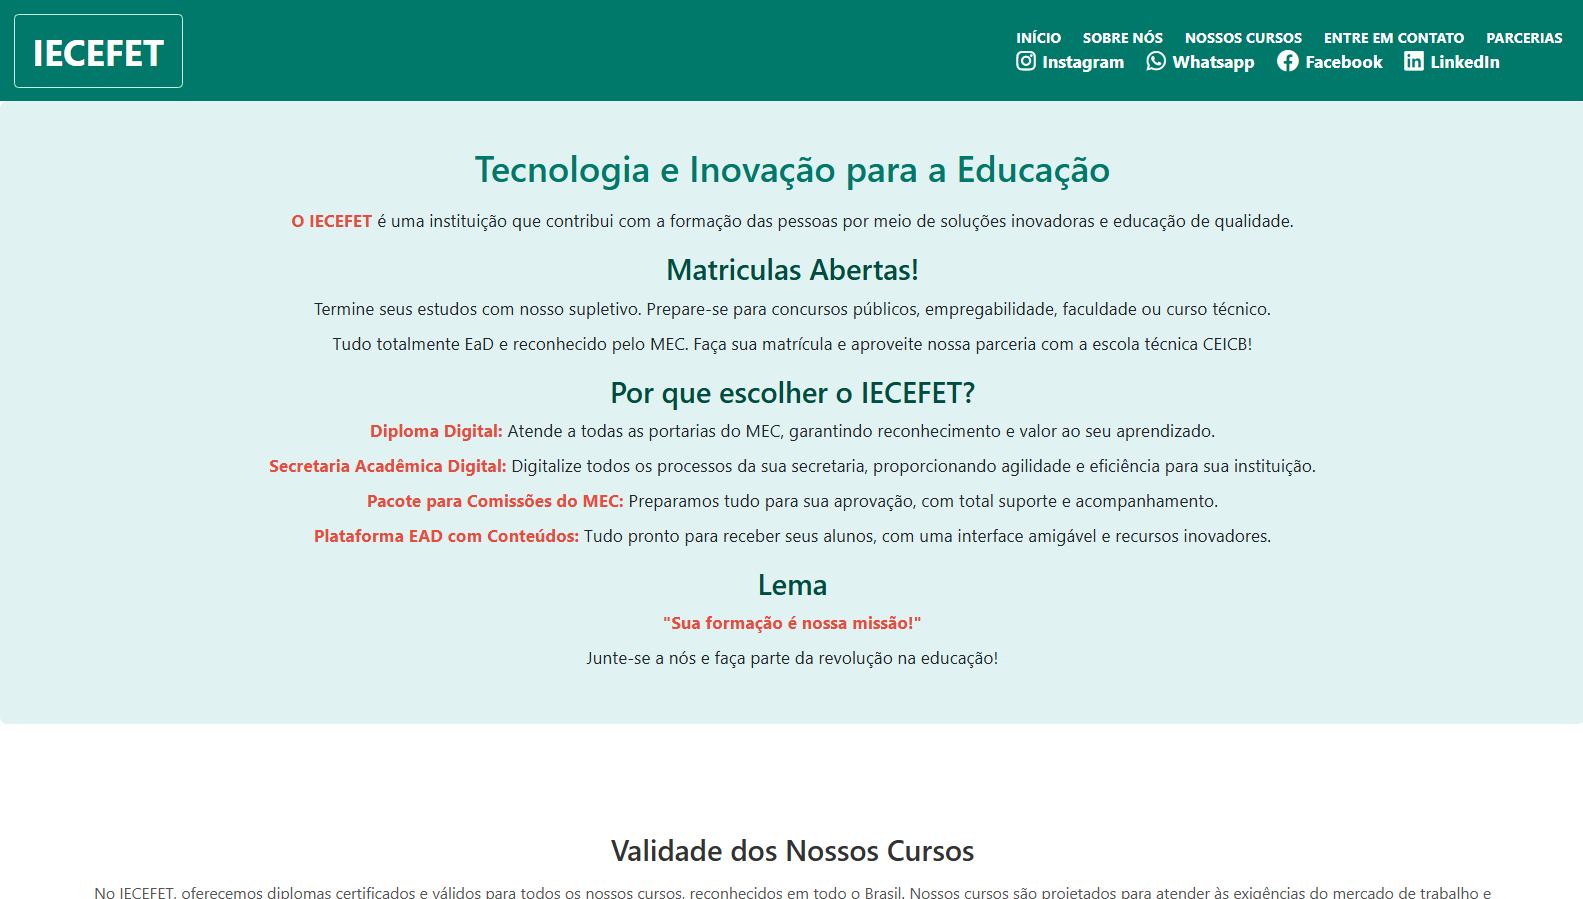
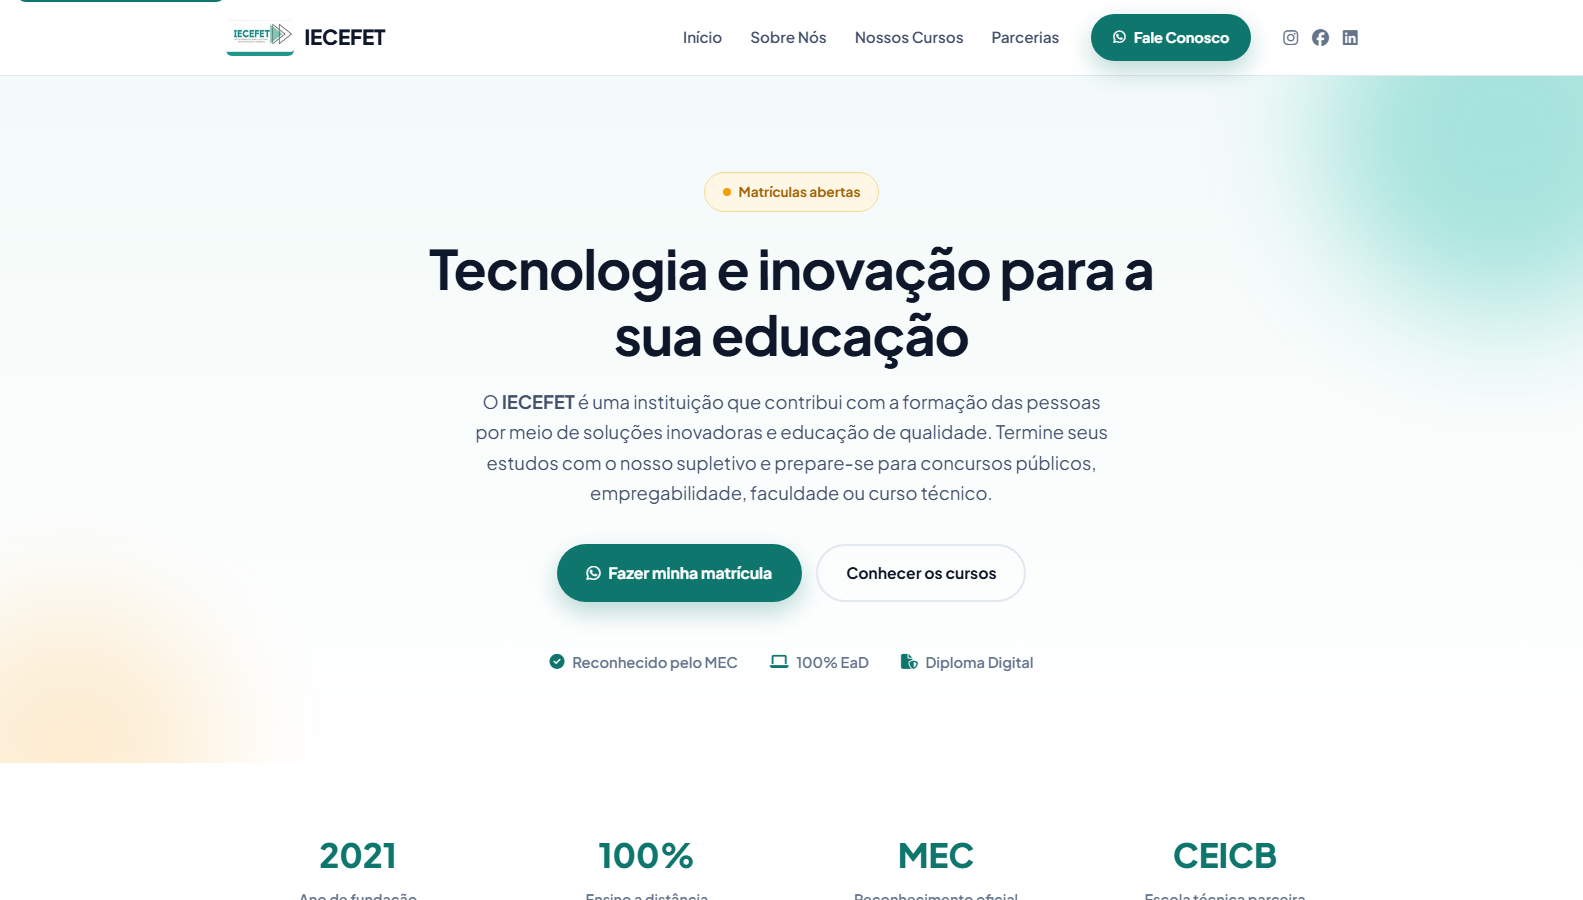
Adiciona R9 Informatica e Ayesha Hair Salon, atualiza thumbnails
Inclui os dois projetos que faltavam no portfolio (R9 e Ayesha), com
thumbnails novos gerados a partir das versoes atualizadas de cada site.
Atualiza tambem os thumbnails do IECEFET e do Software de Gestao Medico,
que estavam desatualizados (versao anterior ao revamp). Remove
user-scalable=no do viewport, que bloqueava o zoom do usuario.

diff --git a/index.html b/index.html
@@ -8,10 +8,7 @@
   <head>
     <title>Meu Portfolio</title>
     <meta charset="utf-8" />
-    <meta
-      name="viewport"
-      content="width=device-width, initial-scale=1, user-scalable=no"
-    />
+    <meta name="viewport" content="width=device-width, initial-scale=1" />
     <link rel="stylesheet" href="assets/css/main.css" />
     <link rel="shortcut icon" href="images/logo.png" type="image/x-icon" />
     <noscript
@@ -158,6 +155,51 @@
               <li>
                 <a
                   href="https://vrs-z.github.io/IECEFET_SITE_01/"
+                  target="_blank"
+                  class="button"
+                  >Ver mais</a
+                >
+              </li>
+            </ul>
+          </div>
+
+          <div class="col-4 col-12-medium">
+            <span class="image fit"
+              ><img src="images/R9-Informatica.png" alt="R9 Informática"
+            /></span>
+            <h3>R9 Informática</h3>
+            <p>
+              Site institucional para uma assistência técnica especializada
+              em computadores, notebooks e videogames, com foco em conversão
+              direta pelo WhatsApp.
+            </p>
+            <p></p>
+            <ul class="actions special">
+              <li>
+                <a
+                  href="https://vrs-z.github.io/R9-Site-Informatica/"
+                  target="_blank"
+                  class="button"
+                  >Ver mais</a
+                >
+              </li>
+            </ul>
+          </div>
+
+          <div class="col-4 col-12-medium">
+            <span class="image fit"
+              ><img src="images/Ayesha-Hair-Salon.png" alt="Ayesha Hair Salon"
+            /></span>
+            <h3>Ayesha Hair Salon</h3>
+            <p>
+              Landing page para um salão de beleza, com identidade visual
+              elegante e apresentação da equipe de estilistas.
+            </p>
+            <p></p>
+            <ul class="actions special">
+              <li>
+                <a
+                  href="https://vrs-z.github.io/Hair_Salon/"
                   target="_blank"
                   class="button"
                   >Ver mais</a
